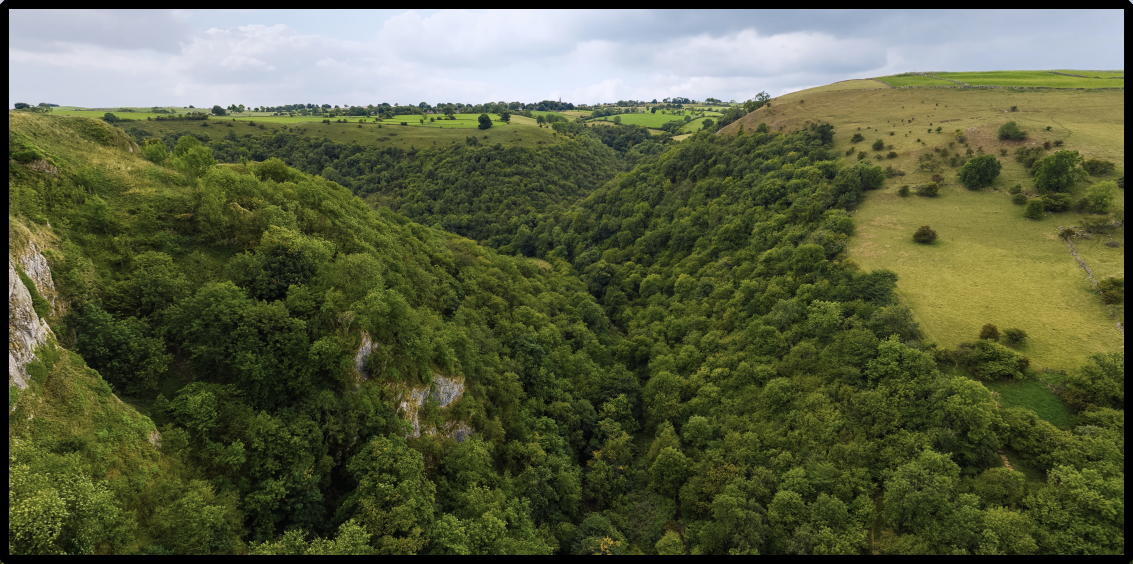
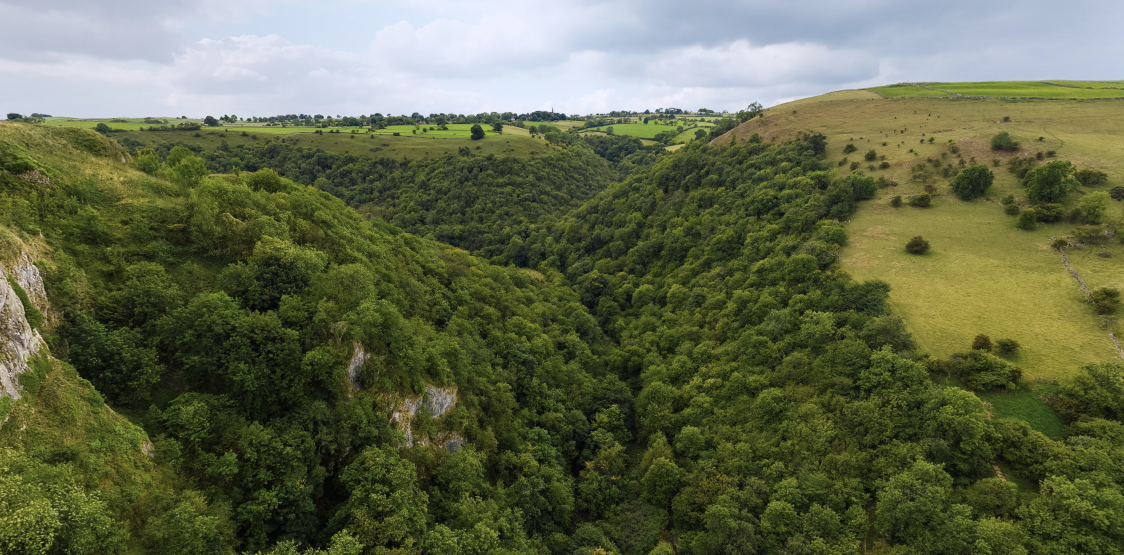
photos

diff --git a/docs/classes/woodland/bracken.md b/docs/classes/woodland/bracken.md
@@ -21,10 +21,10 @@ associated_habitats:
 ---
 
 <figure class="interp-figure">
-  <img src="../../../assets/images/scrubland/s3.png" alt="{{ title }} ({{ code }})">
+  <img src="../../../assets/images/woodland/c8.png" alt="{{ title }} ({{ code }})">
   <figcaption>
-    Bracken on a moorland slope displaying last years residue of dead plant material.  
-    <br><small>Image: CC-BY, Peak District National Park Chris Gilbert</small>
+    Large patch of Bracken can appear orrange late or early in the year. 
+    <br><small>Image: CC-BY, Google Maps</small>
   </figcaption>
 </figure>
 

diff --git a/docs/classes/woodland/coniferous.md b/docs/classes/woodland/coniferous.md
@@ -21,10 +21,10 @@ associated_habitats:
 ---
 
 <figure class="interp-figure">
-  <img src="../../../assets/images/woodland/c2.jpg" alt="{{ title }} ({{ code }})">
+  <img src="../../../assets/images/woodland/c2.png" alt="{{ title }} ({{ code }})">
   <figcaption>
-    Edge of a Coniferous woodland area in active management for forestry. 
-    <br><small>Image: CC-BY, Robin Webster</small>
+    Coniferous woodland area in active management for forestry. 
+    <br><small>Image: CC-BY, Google Maps</small>
   </figcaption>
 </figure>
 

diff --git a/docs/classes/woodland/scrub.md b/docs/classes/woodland/scrub.md
@@ -21,10 +21,10 @@ associated_habitats:
 ---
 
 <figure class="interp-figure">
-  <img src="../../../assets/images/scrubland/s1a.jpg" alt="{{ title }} ({{ code }})">
+  <img src="../../../assets/images/woodland/c6.png" alt="{{ title }} ({{ code }})">
   <figcaption>
-    Mixed scrub edge with rough grassland.  
-    <br><small>Image: CC-BY, Clive Perrin</small>
+    Mixed scrub edge with rough grassland on daleside.  
+    <br><small>Image: CC-BY, Google Maps</small>
   </figcaption>
 </figure>
 

diff --git a/docs/classes/woodland/gorse.md b/docs/classes/woodland/gorse.md
@@ -22,16 +22,14 @@ associated_habitats:
 ---
 
 <figure class="interp-figure">
-  <img src="../../../assets/images/scrubland/s1b.png" alt="{{ title }} ({{ code }})">
+  <img src="../../../assets/images/woodland/c6a.png" alt="{{ title }} ({{ code }})">
   <figcaption>
     Gorse vergreen shrub distinctive when in bright yellow flower.  
-    <br><small>Image: CC-BY, Woodlands.co.uk</small>
+    <br><small>Image: CC-BY, Google Maps</small>
   </figcaption>
 </figure>
 
 ---
-
-#
 
 ## Definition
 

diff --git a/docs/classes/woodland/hedgerows.md b/docs/classes/woodland/hedgerows.md
@@ -21,10 +21,10 @@ associated_habitats:
 ---
 
 <figure class="interp-figure">
-  <img src="../../../assets/images/scrubland/s2.jpg" alt="{{ title }} ({{ code }})">
+  <img src="../../../assets/images/woodland/c7.png" alt="{{ title }} ({{ code }})">
   <figcaption>
-    Hawthorne hedgerow in an agricultural field.   
-    <br><small>Image: CC-BY, 35mmMan</small>
+    Hedgerow in arabale setting. 
+    <br><small>Image: CC-BY, Google Maps</small>
   </figcaption>
 </figure>
 

diff --git a/docs/classes/woodland/broadleaved-hedgerow-trees.md b/docs/classes/woodland/broadleaved-hedgerow-trees.md
@@ -18,9 +18,17 @@ associated_habitats:
 **Parent:** {{ parent }}  
 **Status:** {{ status }}
 
-*insert horizontal habitat image w: pix h: pix* Photo: Woodland Trust
+---
 
-#
+<figure class="interp-figure">
+  <img src="../../../assets/images/woodland/c1b.png" alt="{{ title }} ({{ code }})">
+  <figcaption>
+    Broadleaved hedgerow trees within managed grassland. 
+    <br><small>Image: CC-BY, Google Maps</small>
+  </figcaption>
+</figure>
+
+---
 
 ## Definition
 

diff --git a/docs/classes/woodland/broadleaved-single-trees.md b/docs/classes/woodland/broadleaved-single-trees.md
@@ -18,7 +18,17 @@ associated_habitats:
 **Parent:** {{ parent }}  
 **Status:** {{ status }}
 
-*insert horizontal habitat image w: pix h: pix*
+---
+
+<figure class="interp-figure">
+  <img src="../../../assets/images/woodland/c1a.png" alt="{{ title }} ({{ code }})">
+  <figcaption>
+    Broadleaved single trees within managed grassland. 
+    <br><small>Image: CC-BY, Google Maps</small>
+  </figcaption>
+</figure>
+
+---
 
 ## Definition
 

diff --git a/docs/classes/woodland/traditional-orchard.md b/docs/classes/woodland/traditional-orchard.md
@@ -18,7 +18,17 @@ associated_habitats:
 **Parent:** {{ parent }}  
 **Status:** {{ status }}
 
-*insert horizontal habitat image w: pix h: pix*
+---
+
+<figure class="interp-figure">
+  <img src="../../../assets/images/woodland/c4.png" alt="{{ title }} ({{ code }})">
+  <figcaption>
+    Large traditional orchard next to farm house.  
+    <br><small>Image: CC-BY, Google Maps</small>
+  </figcaption>
+</figure>
+
+---
 
 ## Definition
 

diff --git a/docs/classes/woodland/coniferous-hedgerow-trees.md b/docs/classes/woodland/coniferous-hedgerow-trees.md
@@ -18,7 +18,17 @@ associated_habitats:
 **Parent:** {{ parent }}  
 **Status:** {{ status }}
 
-*insert horizontal habitat image w: pix h: pix*
+---
+
+<figure class="interp-figure">
+  <img src="../../../assets/images/woodland/c2b.png" alt="{{ title }} ({{ code }})">
+  <figcaption>
+    Coniferous single tree in grassland.  
+    <br><small>Image: CC-BY, Google Maps</small>
+  </figcaption>
+</figure>
+
+---
 
 ## Definition
 

diff --git a/docs/classes/woodland/coniferous-single-trees.md b/docs/classes/woodland/coniferous-single-trees.md
@@ -18,7 +18,17 @@ associated_habitats:
 **Parent:** {{ parent }}  
 **Status:** {{ status }}
 
-*insert horizontal habitat image w: pix h: pix*
+---
+
+<figure class="interp-figure">
+  <img src="../../../assets/images/woodland/c2a.png" alt="{{ title }} ({{ code }})">
+  <figcaption>
+    Coniferous single tree in grassland.  
+    <br><small>Image: CC-BY, Google Maps</small>
+  </figcaption>
+</figure>
+
+---
 
 ## Definition
 

diff --git a/docs/classes/woodland/felled.md b/docs/classes/woodland/felled.md
@@ -24,7 +24,7 @@ associated_habitats:
   <img src="../../../assets/images/woodland/c5.png" alt="{{ title }} ({{ code }})">
   <figcaption>
     Area recently forested of coniferous trees. 
-    <br><small>Image: CC-BY, Peak District National Park</small>
+    <br><small>Image: CC-BY, Google Maps</small>
   </figcaption>
 </figure>
 

diff --git a/docs/classes/woodland/broadleaved.md b/docs/classes/woodland/broadleaved.md
@@ -24,7 +24,7 @@ associated_habitats:
   <img src="../../../assets/images/woodland/c1.png" alt="{{ title }} ({{ code }})">
   <figcaption>
     Broadleaved high forest with mixed species. 
-    <br><small>Image: CC-BY, Woodland Trust</small>
+    <br><small>Image: CC-BY, Google Maps</small>
   </figcaption>
 </figure>
 
